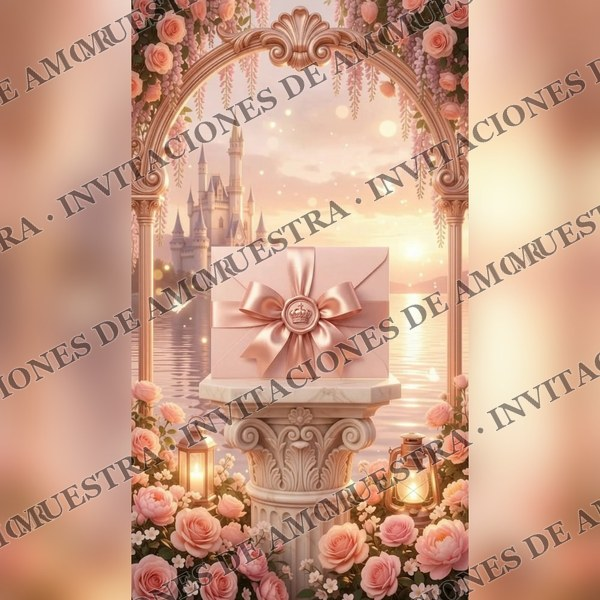
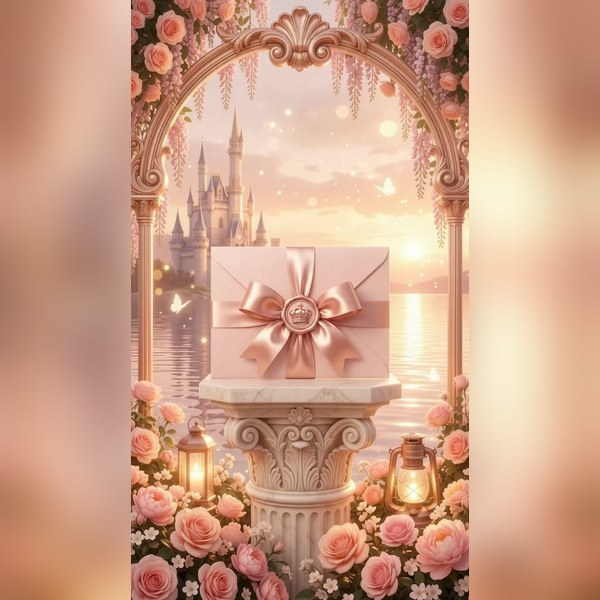
Valeri final: miniatura de WhatsApp limpia, sin marca
Claude-Session: https://claude.ai/code/session_01QLDyFVBacJsETuRboibWTD

diff --git a/xv-valeri-alejandra/index.html b/xv-valeri-alejandra/index.html
@@ -10,14 +10,14 @@
 <meta property="og:site_name" content="Invitaciones de Amor">
 <meta property="og:title" content="Mis XV Años · Valeri Alejandra">
 <meta property="og:description" content="Estás invitado a mis XV años. Toca el sello para abrir tu invitación ✨">
-<meta property="og:image" content="https://eleganciadeamor.com/xv-valeri-alejandra/recursos/vista-previa.jpg?v=1">
+<meta property="og:image" content="https://eleganciadeamor.com/xv-valeri-alejandra/recursos/vista-previa-final.jpg?v=2">
 <meta property="og:image:width" content="600">
 <meta property="og:image:height" content="600">
 <meta property="og:image:alt" content="Sobre rosado con lazo y sello de corona sobre un pedestal, frente a un castillo junto a un lago al atardecer">
 <meta property="og:url" content="https://eleganciadeamor.com/xv-valeri-alejandra/">
 <meta name="twitter:card" content="summary">
-<meta name="twitter:image" content="https://eleganciadeamor.com/xv-valeri-alejandra/recursos/vista-previa.jpg?v=1">
-<link rel="icon" href="recursos/vista-previa.jpg">
+<meta name="twitter:image" content="https://eleganciadeamor.com/xv-valeri-alejandra/recursos/vista-previa-final.jpg?v=2">
+<link rel="icon" href="recursos/vista-previa-final.jpg?v=2">
 <link rel="preload" as="image" href="recursos/sobre-cerrado.webp?v=5" fetchpriority="high">
 <script>
 /* ===================== DATOS DE LA INVITACIÓN (cambiar aquí) ===================== */
